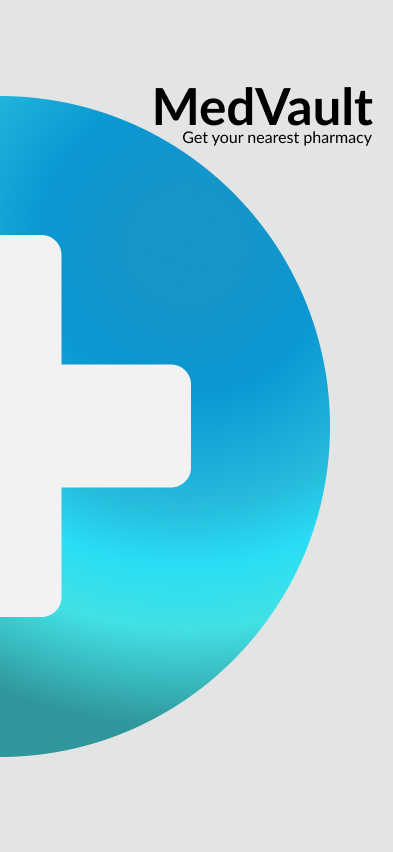
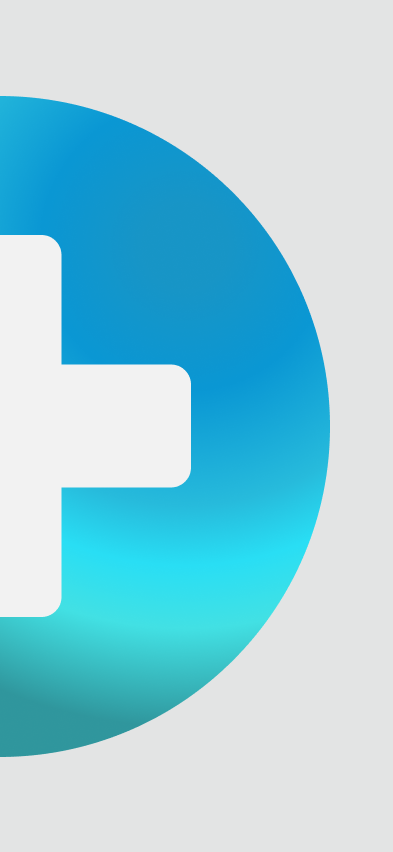
changed the splash screen and category

Changed region(s): [[0.3969, 0.0915, 0.9466, 0.1831]]

diff --git a/lib/pages/catergory.dart b/lib/pages/catergory.dart
@@ -30,7 +30,7 @@ class _CategoryState extends State<Category> {
             decoration: const BoxDecoration(
               image: DecorationImage(
                 image: AssetImage(
-                    'lib/images/welc.png'),
+                    'lib/images/splash.png'),
                 fit: BoxFit.cover,
                 //height: double.infinity,
                 //width: double.infinity,
@@ -40,47 +40,74 @@ class _CategoryState extends State<Category> {
 
           SingleChildScrollView(
             child: Padding(
-              padding: const EdgeInsets.fromLTRB(76.0,600.0,26.0,26.0),
+              padding: const EdgeInsets.only(left: 0,top: 420, right: 0, bottom:0),
               child: Column(
-                crossAxisAlignment: CrossAxisAlignment.start,
+                crossAxisAlignment: CrossAxisAlignment.center,
                 children: [
+
+                  const Text(
+                    'Tailor Your Experience',
+                    style: TextStyle(
+                      fontSize: 25,
+                      fontWeight: FontWeight.bold,
+                      color: Colors.black,
+                    ),
+                  ),
+                  const SizedBox(height: 48,),
+                  const Text(
+                    'To provide you with a good \n experience, please select your \n role below:',
+                    textAlign: TextAlign.center,
+                    style: TextStyle(
+                      fontSize: 18,
+                      fontWeight: FontWeight.w600,
+                      color: Colors.indigo, // You can use the 'indigo' color for dark blue
+                    ),
+                  ),
+
+
                   const Padding(
-                    padding: EdgeInsets.symmetric(vertical: 10.0),
+                    padding: EdgeInsets.symmetric(vertical: 10.0,),
 
 
                   ),
-                  RadioListTile<String>(
-                    value: 'Doctor',
-                    groupValue: _userType,
-                    onChanged: (value){
-                      setState(() {
-                        _userType= value as String;
-                      });
-                      if(_userType=='Doctor'){
-                        Navigator.push(
-                          context,
-                          MaterialPageRoute(builder: (context)=> SignInDoc()),
-                        );
-                      }//if
-                    },
-                    title: const Text('Doctor'),
+                  Padding(
+                    padding: const EdgeInsets.only(left: 100,top: 0, right: 0, bottom:0),
+                    child: RadioListTile<String>(
+                      value: 'Doctor',
+                      groupValue: _userType,
+                      onChanged: (value){
+                        setState(() {
+                          _userType= value as String;
+                        });
+                        if(_userType=='Doctor'){
+                          Navigator.push(
+                            context,
+                            MaterialPageRoute(builder: (context)=> SignInDoc()),
+                          );
+                        }//if
+                      },
+                      title: const Text('Doctor'),
+                    ),
                   ),
 
-                  RadioListTile<String>(
-                    value: 'Patient',
-                    groupValue: _userType,
-                    onChanged: (value){
-                      setState(() {
-                        _userType= value as String;
-                      });
-                      if(_userType=='Patient'){
-                        Navigator.push(
-                          context,
-                          MaterialPageRoute(builder: (context)=> SignIn()),
-                        );
-                      }//if
-                    },
-                    title: const Text('Patient'),
+                  Padding(
+                    padding: const EdgeInsets.only(left: 100,top: 0, right: 0, bottom:0),
+                    child: RadioListTile<String>(
+                      value: 'Patient',
+                      groupValue: _userType,
+                      onChanged: (value){
+                        setState(() {
+                          _userType= value as String;
+                        });
+                        if(_userType=='Patient'){
+                          Navigator.push(
+                            context,
+                            MaterialPageRoute(builder: (context)=> SignIn()),
+                          );
+                        }//if
+                      },
+                      title: const Text('Patient'),
+                    ),
                   )
                 ],
               ),

diff --git a/lib/pages/splash_screen.dart b/lib/pages/splash_screen.dart
@@ -25,15 +25,52 @@ class _SplashScreenState extends State<SplashScreen> {
   @override
   Widget build(BuildContext context) {
     return Scaffold(
-      body: Container(
-        decoration: const BoxDecoration(
-          image: DecorationImage(
-            image: AssetImage('lib/images/medvault.png'),
-            fit: BoxFit.cover,
-          )
-        ),
+      body: Stack(
+        children: [
+          Container(
+            decoration: const BoxDecoration(
+              image: DecorationImage(
+                image: AssetImage('lib/images/medvault.png'),
+                fit: BoxFit.cover,
+              ),
+            ),
+          ),
+          Positioned(
+            top: 30,
+            right: 10,
+            child: Container(
+              padding: const EdgeInsets.all(8.0),
 
+              child: const Text(
+                'MedVault',
+                style: TextStyle(
+                  fontSize: 50,
+                  fontWeight: FontWeight.w700,
+                  color: Colors.black,
+                 // fontFamily: 'Lato',
+                ),
+              ),
+            ),
+          ),
+          Positioned(
+            top: 83,
+            right: 9,
+            child: Container(
+              padding: const EdgeInsets.all(8.0),
+
+              child: const Text(
+                'Get your nearest pharmacy',
+                style: TextStyle(
+                  fontSize: 15,
+                  fontWeight: FontWeight.w400,
+                  color: Colors.black,
+                ),
+              ),
+            ),
+          ),
+        ],
       ),
     );
+
   }
 }
